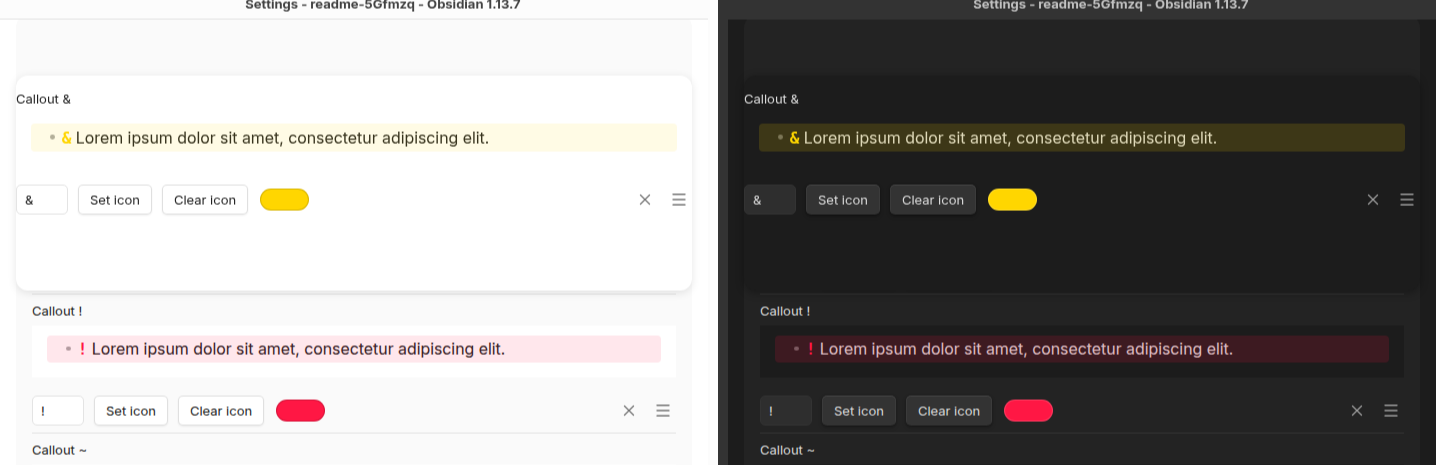
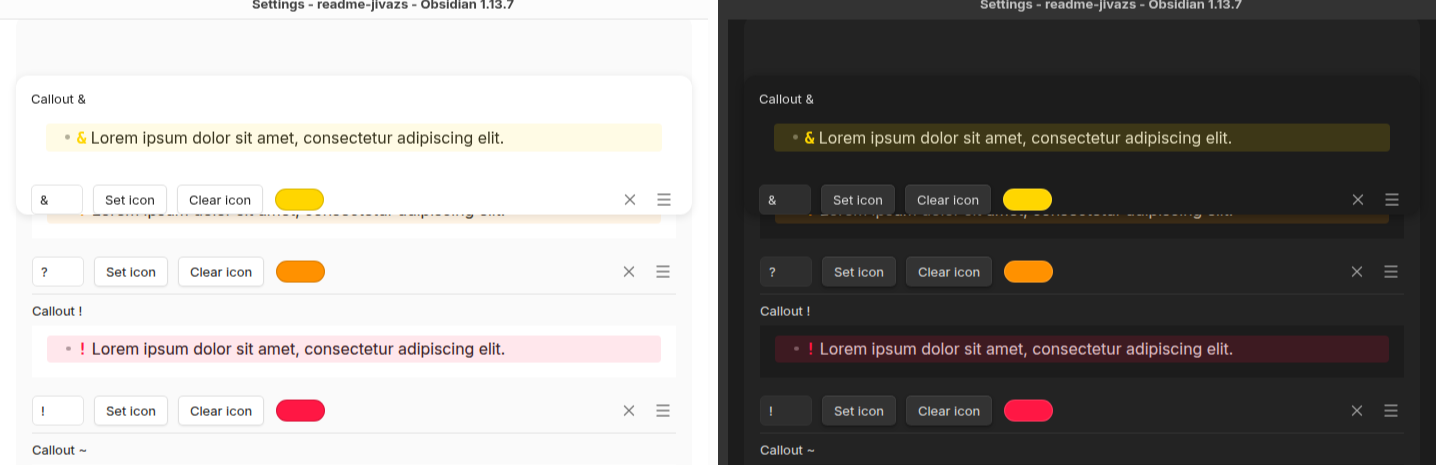
Fix the drag ghost's padding and excessive height
Obsidian's own list-reorder drag clones whichever row is being
dragged -- .lc-setting and all -- into a new, otherwise-empty parent
for the ghost overlay that follows the pointer. Two things about the
row's own styling didn't carry over correctly there:

- The existing .lc-setting:last-child rule's 200px padding-bottom,
  meant to give the real list's actual last row breathing room at the
  foot of a scrolled pane, applied to this clone too: it's the only
  child of that new parent, so it's also :last-child, regardless of
  where the row it was cloned from actually sat in the list.
- A normal row has no horizontal padding of its own (padding: 15px 0)
  because it doesn't need any -- it sits directly against the settings
  pane's own padded content edge. This clone instead renders as a
  visually boxed "card" (background, border, shadow, all Obsidian's
  own), positioned outside that pane entirely, so its title, preview
  and inputs touched the card's own edges with nothing to separate
  them.

Fixed with one rule targeting .lc-setting.mod-dragged-item
specifically (Obsidian's own class for the clone), giving it a
uniform, sensible padding instead of inheriting either of the above.
The pane's own padding was not a usable reference to match instead --
it's responsive, ranging from 16px to 158px horizontally depending on
window width in testing.

diff --git a/styles.css b/styles.css
@@ -247,6 +247,25 @@ settings:
   padding-bottom: 200px;
 }
 
+/* Obsidian's own list-reorder drag clones whichever row is being dragged --
+   .lc-setting and all -- into a new, otherwise-empty parent for the ghost
+   overlay that follows the pointer. Two things about the row's own styling
+   don't carry over correctly there:
+
+   1. The 200px padding-bottom above, meant to give the real list's actual
+      last row breathing room at the foot of a scrolled pane, applies to
+      this clone too: it's the *only* child of that new parent, so it's
+      also :last-child, regardless of where the row it was cloned from sat.
+   2. A normal row has no horizontal padding of its own (padding: 15px 0)
+      because it doesn't need any -- it sits directly against the settings
+      pane's own padded content edge. This clone instead renders as a
+      visually boxed "card" (background, border, shadow, all Obsidian's
+      own), positioned outside that pane entirely, so its content now
+      touches the card's own edges with nothing to separate them. */
+.lc-setting.mod-dragged-item {
+  padding: 15px;
+}
+
 .lc-setting .lc-list-bg {
   background-color: transparent;
   z-index: 0;
